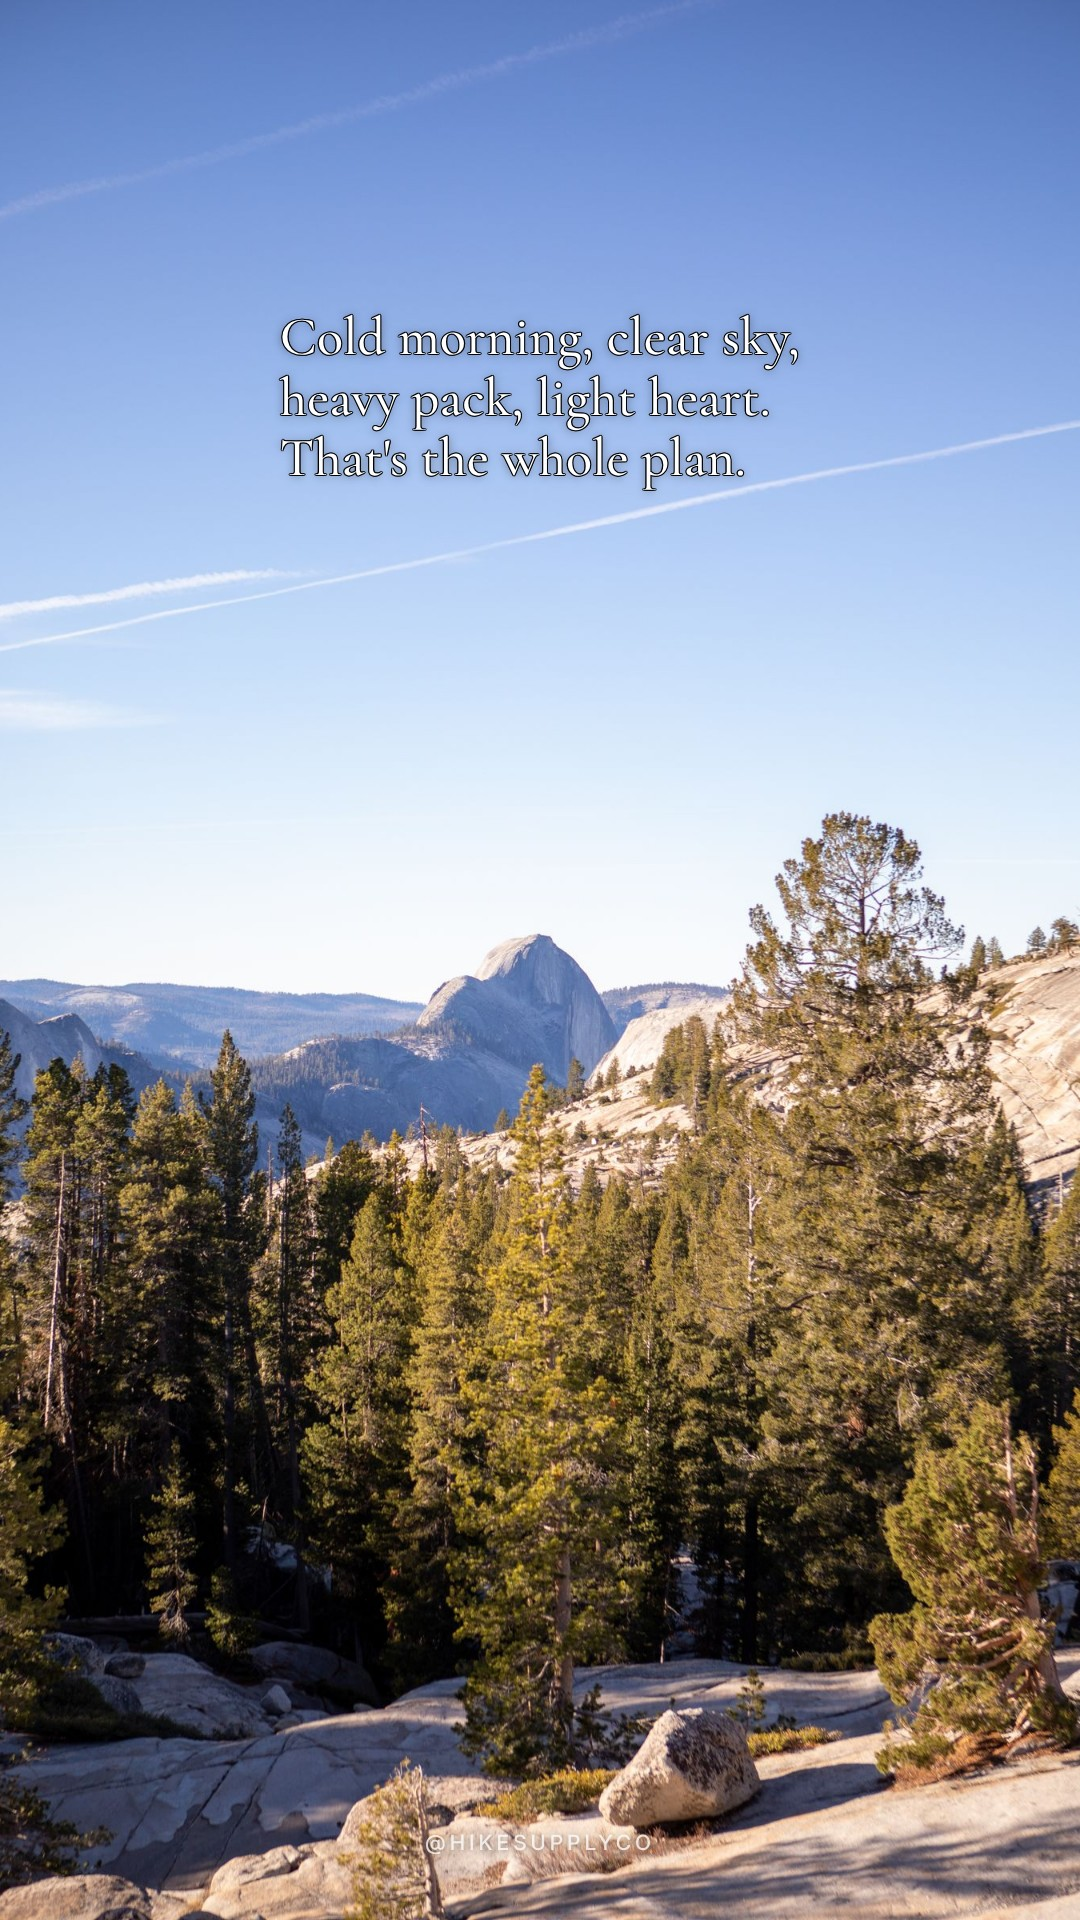
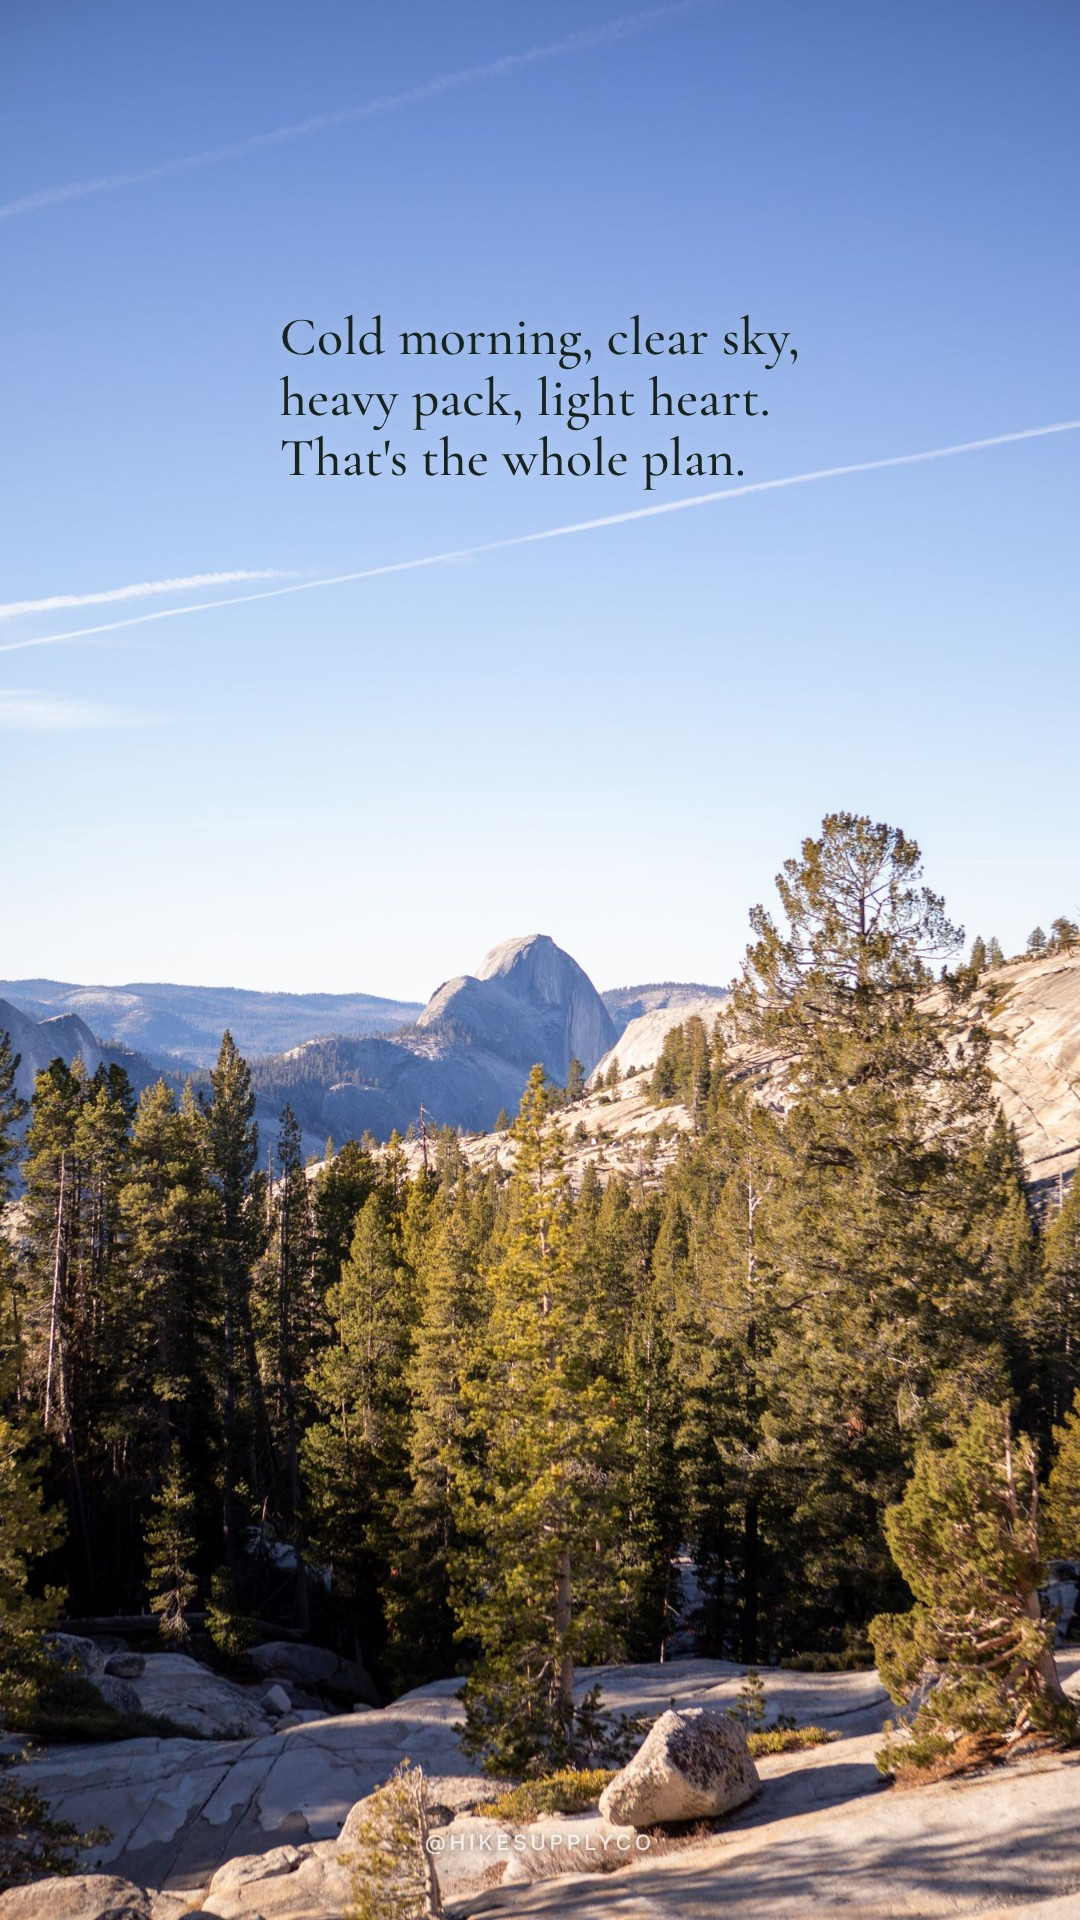
moods mw2026-11-02: dark letters on bright skies, no outline (Vasil's note)
Claude-Session: https://claude.ai/code/session_01G77JpVyGKs1pyqUgDVzVne

Changed region(s): [[0.2444, 0.1562, 0.7333, 0.25]]

diff --git a/moods/render_mood.py b/moods/render_mood.py
@@ -1,6 +1,6 @@
 """Render quiet quote posts on real landscape photos.
 python3 moods/render_mood.py moods/batches/<batch>.json
-Batch: {"posts": [{"id", "photo": "moods/photos/pexels-<id>.jpg", "quote": "line\\nline\\n...", "author": "" (only for public-domain quotes), "place": "auto"|"top"|"middle"|"bottom"}]}
+Batch: {"posts": [{"id", "photo": "moods/photos/pexels-<id>.jpg", "quote": "line\\nline\\n...", "author": "" (only for public-domain quotes), "place": "auto"|"top"|"middle"|"bottom"|<0-1 fraction of height>}]}
 Writes for each post: media/moods/<id>-4x5.jpg (1080x1350, Instagram/Facebook), <id>-2x3.jpg (1000x1500, Pinterest), <id>-9x16.jpg (1080x1920, TikTok/Stories).
 Picks the calmest band of the photo for the text (sky, mist, snow) unless place is given."""
 import sys, os, json, html
@@ -31,20 +31,21 @@ def page(p, w, h, top, light=100):
     q = "<br>".join(html.escape(x) for x in p["quote"].split("\n"))
     a = f'<div class="by">{html.escape(p["author"])}</div>' if p.get("author") else ""
     fs = round(w * 0.05)
-    # No dark veil behind the text (Vasil 2026-10-26: it looked like grey clouds).
-    # On light skies the letters get a thin dark outline instead.
-    k = min(1, max(0, (light - 105) / 90))
-    import math
-    r = max(1.2, fs * 0.022); al = 0.25 + 0.25 * k
-    stroke = ", ".join(f"{r*math.cos(t*math.pi/8):.2f}px {r*math.sin(t*math.pi/8):.2f}px 0.6px rgba(0,0,0,{al:.2f})" for t in range(16)) + ", " if light > 105 else ""
+    # No dark veil (Vasil 2026-10-26: looked like grey clouds) and no outline
+    # (Vasil 2026-10-28: outlined letters on bright sky looked bad).
+    # Bright band: deep forest-green letters. Darker band: white letters with a soft shadow.
+    dark = light >= 140
+    col = "#18231d" if dark else "#fff"
+    sub = "rgba(24,35,29,.8)" if dark else "rgba(255,255,255,.85)"
+    sh = "0 0 18px rgba(255,255,255,.35)" if dark else f"0 1px 12px rgba(0,0,0,{0.35 + min(1, max(0, (light - 90) / 50)) * 0.2:.2f})"
     return f"""<html><head><meta charset=utf-8><style>
 @font-face {{ font-family: C; src: url(file://{ROOT}/moods/Cormorant-500.woff2); font-weight: 500; }}
 @font-face {{ font-family: I; src: url(file://{ROOT}/pins/Inter.ttf); font-weight: 100 900; }}
 * {{ margin: 0; box-sizing: border-box; }}
 body {{ width: {w}px; height: {h}px; overflow: hidden; background: #111 url(file://{os.path.join(ROOT, p['photo'])}) center/cover no-repeat; position: relative; }}
 .q {{ position: absolute; left: 0; right: 0; top: {top*100}%; display: flex; justify-content: center; }}
-.q div {{ font: 500 {fs}px/1.12 C, serif; color: #fff; letter-spacing: .2px; text-shadow: {stroke}0 1px 10px rgba(0,0,0,{0.3 + min(1, max(0, (light - 100) / 120)) * 0.25:.2f}); max-width: {int(w*.78)}px; }}
-.by {{ font: 500 {round(fs*.42)}px/1 I, sans-serif; letter-spacing: 3px; text-transform: uppercase; color: rgba(255,255,255,.85); margin-top: {round(fs*.5)}px; text-shadow: 0 1px 8px rgba(0,0,0,.4); }}
+.q div {{ font: 500 {fs}px/1.12 C, serif; color: {col}; letter-spacing: .2px; text-shadow: {sh}; max-width: {int(w*.78)}px; }}
+.by {{ font: 500 {round(fs*.42)}px/1 I, sans-serif; letter-spacing: 3px; text-transform: uppercase; color: {sub}; margin-top: {round(fs*.5)}px; text-shadow: {sh}; }}
 .h {{ position: absolute; left: 0; right: 0; bottom: {round(h*.035)}px; text-align: center; font: 500 {round(w*.019)}px/1 I, sans-serif; letter-spacing: 4px; color: rgba(255,255,255,.78); text-shadow: 0 1px 8px rgba(0,0,0,.5); }}
 </style></head><body><div class="q"><div>{q}{a}</div></div><div class="h">@HIKESUPPLYCO</div></body></html>"""
 
@@ -57,7 +58,7 @@ with sync_playwright() as pw:
     for p in batch["posts"]:
         for key, (w, h) in SIZES.items():
             place = p.get("place", "auto")
-            top = {"top": 0.16, "middle": 0.4, "bottom": 0.6}.get(place) or calm_band(os.path.join(ROOT, p["photo"]), w, h)
+            top = place if isinstance(place, (int, float)) else {"top": 0.16, "middle": 0.4, "bottom": 0.6}.get(place) or calm_band(os.path.join(ROOT, p["photo"]), w, h)
             pg = b.new_page(viewport={"width": w, "height": h})
             tmp = os.path.join(ROOT, "moods", "_tmp.html"); open(tmp, "w").write(page(p, w, h, top, band_light(os.path.join(ROOT, p["photo"]), w, h, top)))
             pg.goto("file://" + tmp); pg.evaluate("document.fonts.ready"); pg.wait_for_timeout(300)
